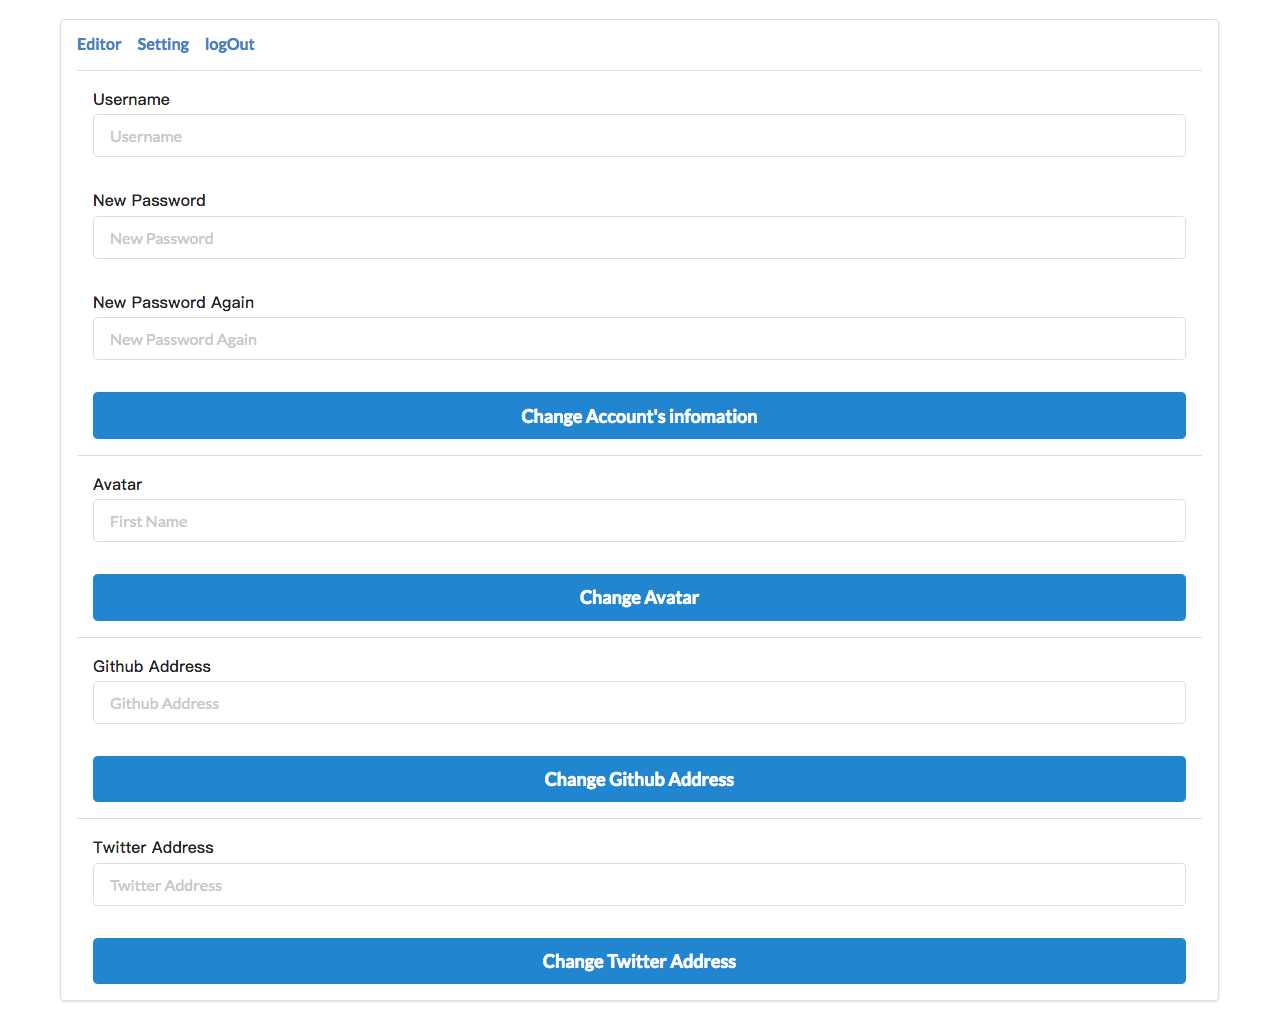
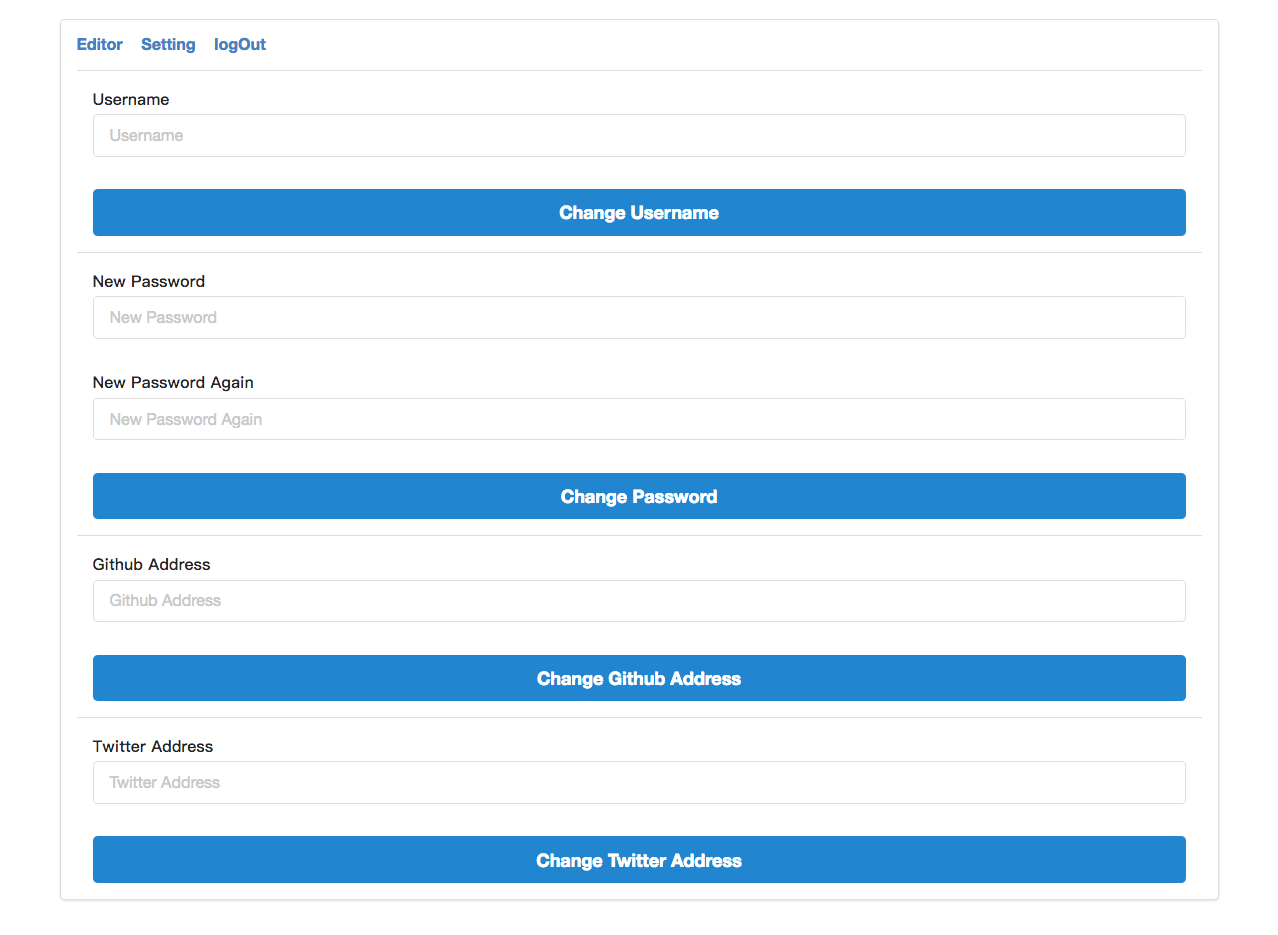
just wait the last test on windows

Changed region(s): [[0.061, 0.1861, 0.946, 0.9615], [0.061, 0.093, 0.1526, 0.1551], [0.061, 0.031, 0.2136, 0.062]]

diff --git a/app/assets/page/src/App.vue b/app/assets/page/src/App.vue
@@ -18,7 +18,7 @@
         <div class="ui sixteen column grid container">
             <div class="doubling two column row custom-row">
                 <div class="column centered">
-                    <button id="load-more" class="fluid big ui mini basic button" type="button">More</button>
+                    <button  v-bind:class="{ disabled: loadMore }" id="load-more" class="fluid ui mini button" type="button">More</button>
                 </div>
             </div>
         </div>
@@ -34,9 +34,9 @@
 
     export default {
         ready() {
-            const num = 5;
+            const num = 5; // page num
             let pos = 0;
-            
+
             // load more event
             $("#load-more").on("click", event => {
                 $.ajax({
@@ -46,20 +46,28 @@
                 }).done(postList => {
                     if (postList.length === 0)
                     {
+                        this.$data.loadMore = true;
+                        return ;
                     }
 
-                    this.$data.postList.push(postList);
+                    if (postList.length < num)
+                    {
+                        this.$data.loadMore = true;
+                    }
+
+                    this.$data.postList.push(...postList);
                     pos = min(postList.map(post => post.id)) - 1;
                 }).fail(error => {
                     alert(error);
                 });
             });
 
+            // get user info
             $.ajax({
-				url: "/setting",
-				dataType: "json",
-				method: "GET"
-			}).done(user => {
+                url: "/setting",
+                dataType: "json",
+                method: "GET"
+            }).done(user => {
                 this.$data.user.username = user.username;
                 this.$data.user.github = user.github;
                 this.$data.user.twitter = user.twitter;
@@ -67,16 +75,22 @@
                 alert(error);
             });
 
+            // get init data
             $.ajax({
-				url: `/post?&pos=0&num=${num}`,
-				dataType: "json",
-				method: "GET",
-			}).done(postList => {
+                url: `/post?&pos=0&num=${num}`,
+                dataType: "json",
+                method: "GET",
+            }).done(postList => {
                 this.$data.postList = postList;
                 pos = min(postList.map(post => post.id)) - 1;
             }).fail(error => {
                 alert(error);
             });
+
+            $("i.link").on("click", event => {
+                const link = $(event.currentTarget).attr("href");
+                location.href = link;
+            })
         },
         components: {
             PostTableView
@@ -89,7 +103,7 @@
                     twitter: ""
                 },
                 postList: [],
-                loadMore: true
+                loadMore: false
             }
         }
     }

diff --git a/app/views/page.html b/app/views/page.html
@@ -1,1 +1,1 @@
-<!DOCTYPE html><html><head><meta charset=utf-8><meta http-equiv=X-UA-Compatible content="IE=edge,chrome=1"><meta name=viewport content="width=device-width,initial-scale=1,maximum-scale=1"><title>Page</title><link rel=stylesheet href=/static/styles/semantic.min.css media=screen title=semantic-ui charset=utf-8><link href=/static/assets/page/css/app.9b8af14cda62a0e1da7af7e114b5b560.css rel=stylesheet></head><body><app></app><script src=/static/scripts/jquery.min.js></script><script src=/static/scripts/semantic.min.js></script><script type=text/javascript src=/static/assets/page/js/manifest.786be21770cae173abca.js></script><script type=text/javascript src=/static/assets/page/js/vendor.b7ead83935fc28fcce66.js></script><script type=text/javascript src=/static/assets/page/js/app.7f9a5ae663840120778d.js></script></body></html>
+<!DOCTYPE html><html><head><meta charset=utf-8><meta http-equiv=X-UA-Compatible content="IE=edge,chrome=1"><meta name=viewport content="width=device-width,initial-scale=1,maximum-scale=1"><title>Page</title><link rel=stylesheet href=/static/styles/semantic.min.css media=screen title=semantic-ui charset=utf-8><link href=/static/assets/page/css/app.aeea669267edc89fe73187cbb6839ffb.css rel=stylesheet></head><body><app></app><script src=/static/scripts/jquery.min.js></script><script src=/static/scripts/semantic.min.js></script><script type=text/javascript src=/static/assets/page/js/manifest.3a2908118717a8cc009c.js></script><script type=text/javascript src=/static/assets/page/js/vendor.6780b2d5cdf4dc300732.js></script><script type=text/javascript src=/static/assets/page/js/app.14a0baf1c4b267bb1b79.js></script></body></html>

diff --git a/app/assets/page/src/components/PostItemView.vue b/app/assets/page/src/components/PostItemView.vue
@@ -30,4 +30,9 @@
     #post-table-view .custom-row:first-child {
         margin-top: 16px;
     }
+
+    .description {
+        word-break: break-all;
+    　　word-wrap: break-word;
+    }
 </style>

diff --git a/README.md b/README.md
@@ -16,7 +16,7 @@
 may be some open source project doesn't in this list.
 
 
-### Deployment
+### Installation
 
 1. install Node.js v6.2.0+
 
@@ -34,26 +34,38 @@ may be some open source project doesn't in this list.
 
 8. cd /path/to/this/program/app/assets/root & npm install & npm run build
 
-9. start program using pm2, listening the local port, use nginx to reverse proxy
+9. start program using pm2, listening the local port, use nginx for reverse proxy
 
+### Config
+    Change the config.json file for custom configs
+    The initial account: {
+        username: "root"
+        password: "123456"
+    }
 
 ### GUI
 
 The following picture pictures may be a little different from the real programs
 
-login interface, /login    
+page interface, '/' or '/page' or '/index'  
+![login interface](./images/page-pc.png)
+
+page phone  
+![login interface](./images/page-phone.png)
+
+login interface, /login  
 ![login interface](./images/login.png)
 
 editor interface, /root#!/editor    
 ![editor interface](./images/editor.png)
 
-select image on pc    
+select image on pc  
 ![select image interface](./images/select-img-pc.png)
 
-select image on phone    
+select image on phone  
 ![select image interface](./images/select-img-phone.png)
 
-setting interface on pc    
+setting interface on pc  
 ![setting interface](./images/setting-pc.png)
 
 setting interface on phone  
